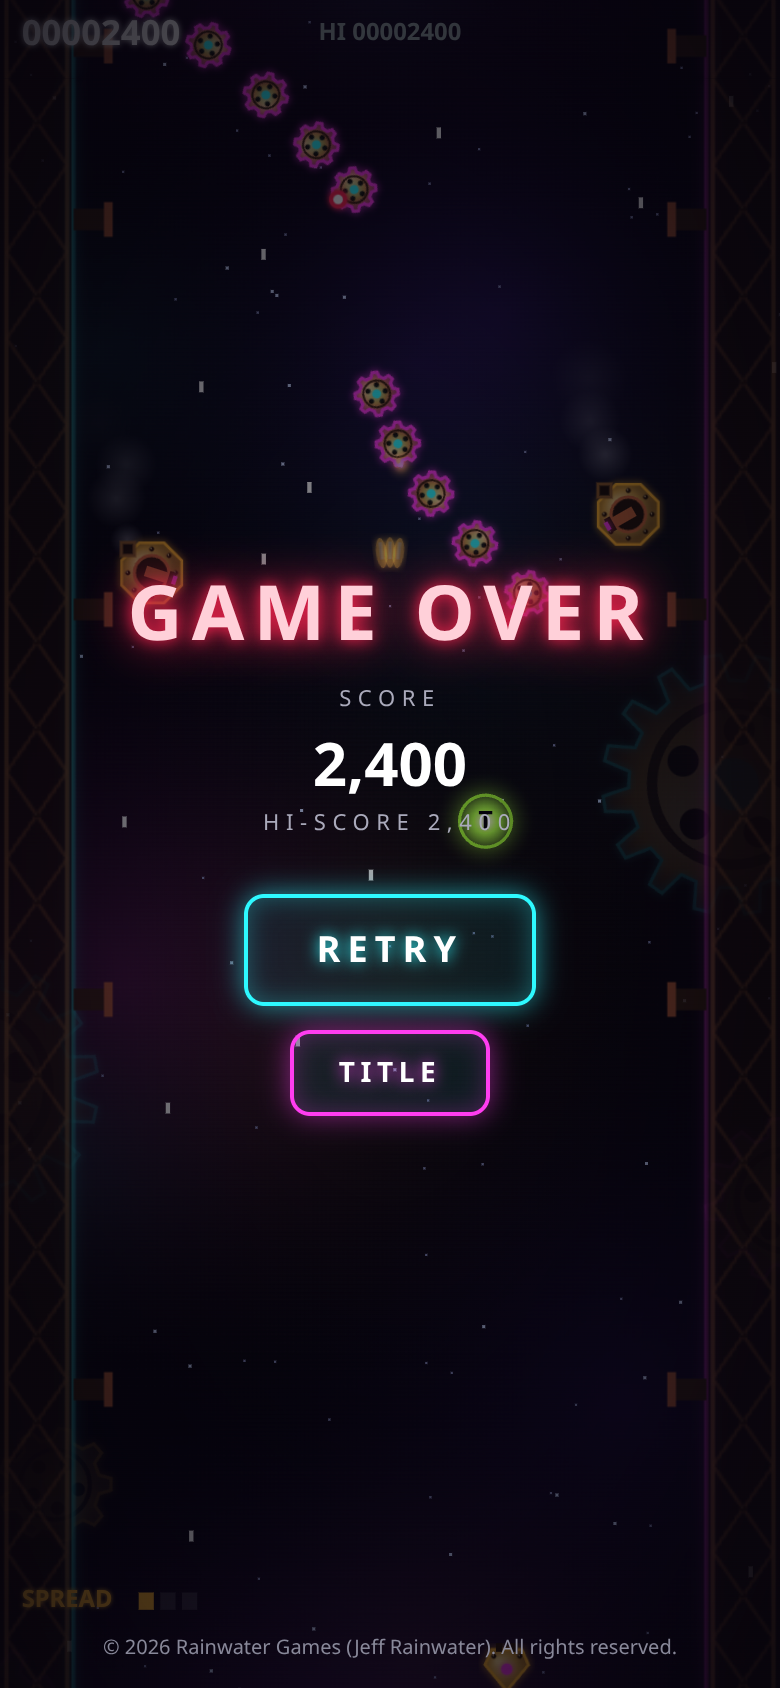
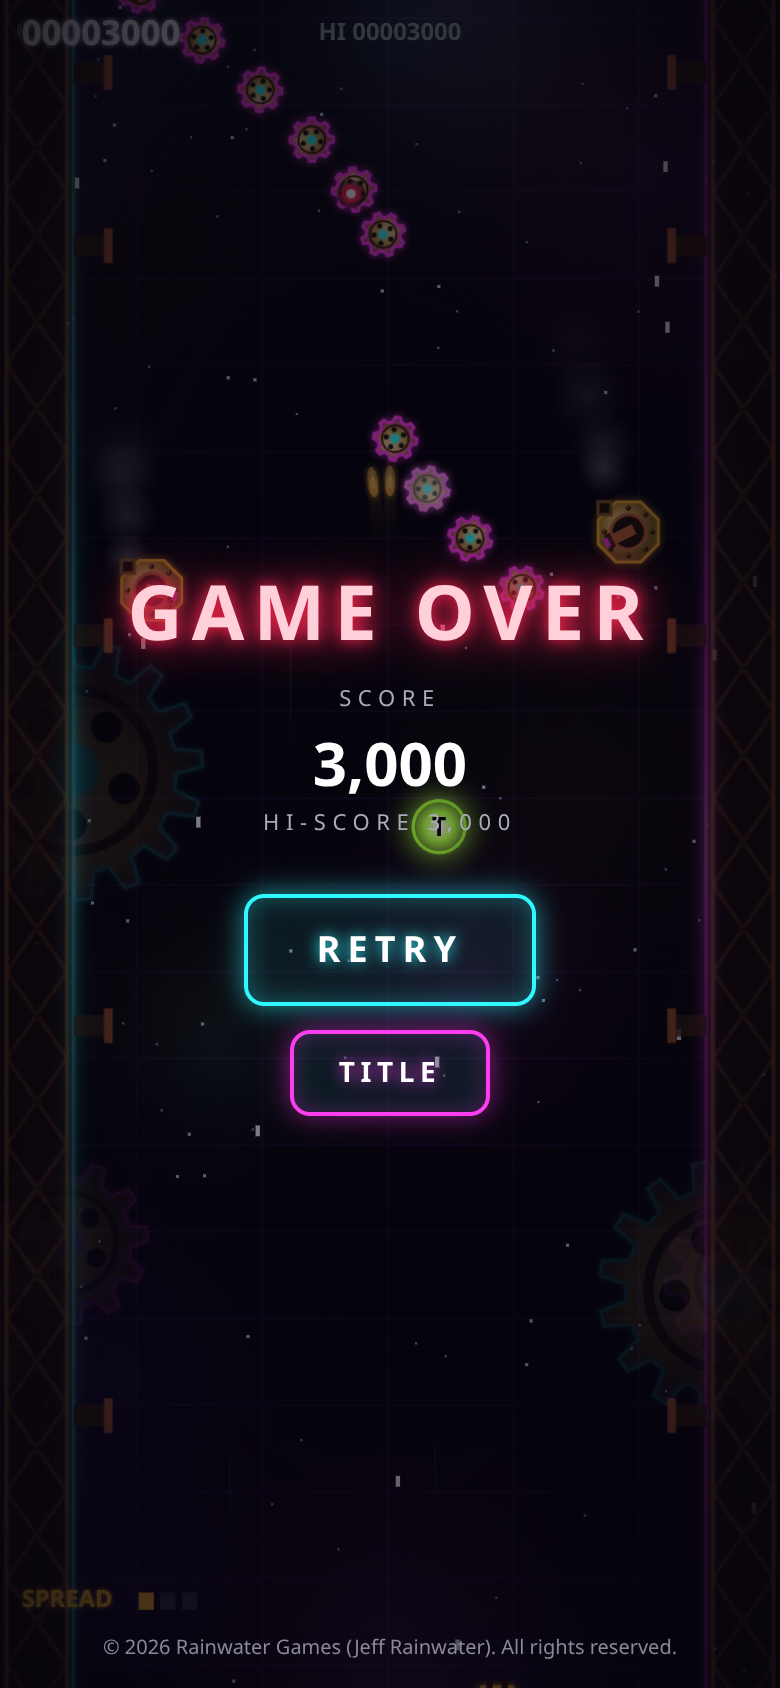
v0.2: difficulty ramp tuning, settings layout, screenshots

diff --git a/build/game.js b/build/game.js
@@ -192,14 +192,14 @@ const FX={pulse:0,beat:-1,strobe:0,strobeC:0,flashC:'255,255,255',streaks:[]};
 function light(x,y,r,c,life){const l=LT.get();if(!l)return;l.x=x;l.y=y;l.r=r;l.c=c||'am';l.life=l.max=life||18;}
 function flash(a,rgb){if(SET.rf)return;G.flash=Math.max(G.flash,a);FX.flashC=rgb||'255,255,255';}
 function strobe(n){if(SET.rf)return;FX.strobe=Math.max(FX.strobe,n);}
-function ramp(){return Math.min(1,G.st/(75*60));} // 0 at start -> 1 after 75s
+function ramp(){return clamp((G.st-14*60)/(70*60),0,1);} // 0 for the first 14s -> 1 at ~84s
 let eid=0;
 const DEF={drone:{hp0:2,r:9,sc:100},swooper:{hp0:4,r:10,sc:150},turret:{hp0:16,r:14,sc:400},carrier:{hp0:14,r:18,sc:500},gunship:{hp0:420,r:44,sc:20000,big:true},boss:{hp0:1800,r:64,sc:100000,big:true}};
 function spawn(type,x,y,o){const e=EN.get();if(!e)return null;for(const k in e)if(k!=='act')delete e[k];Object.assign(e,{type,x,y,vx:0,vy:0,t:0,fl:0,rot:0,invT:0,id:++eid,big:false},DEF[type],o||{});e.hp=e.maxhp=e.hp0;return e;}
 function later(f,fn){G.timers.push({at:G.t+f,fn});}
 // ---------- enemy bullets
 function aim(x,y){return Math.atan2(P.y-y,P.x-x);}
-function eShot(x,y,a,spd,big,force){if(P.dead>0||G.bombT>0)return;const rr=ramp();if(!force&&!G.boss&&Math.random()>.5+.5*rr)return;spd*=.72+.28*rr;const dx=P.x-x,dy=P.y-y;if(dx*dx+dy*dy<50*50)return;const b=EB.get();if(!b)return;b.x=x;b.y=y;b.vx=Math.cos(a)*spd;b.vy=Math.sin(a)*spd;b.big=!!big;b.r=big?6:4;}
+function eShot(x,y,a,spd,big,force){if(P.dead>0||G.bombT>0)return;const rr=ramp();if(!force&&!G.boss&&(G.st<14*60||Math.random()>.28+.72*rr))return;spd*=.7+.3*rr;const dx=P.x-x,dy=P.y-y;if(dx*dx+dy*dy<50*50)return;const b=EB.get();if(!b)return;b.x=x;b.y=y;b.vx=Math.cos(a)*spd;b.vy=Math.sin(a)*spd;b.big=!!big;b.r=big?6:4;}
 function fan(x,y,a,n,sp,spd,big){for(let i=0;i<n;i++)eShot(x,y,a+(n>1?(i/(n-1)-.5)*sp:0),spd,big);}
 function ring(x,y,n,off,spd,big){for(let i=0;i<n;i++)eShot(x,y,off+i/n*TAU,spd,big);}
 function clearBullets(bonus){for(const b of EB.a)if(b.act){b.act=false;if(bonus){G.score+=10;part(0,b.x,b.y,rnd(-.5,.5),rnd(-1,0),14,1,'mg');}}}
@@ -219,7 +219,7 @@ function kill(e){if(e.type==='boss'){e.dying=true;e.dT=0;clearBullets(true);G.sc
  if(e.type==='gunship'){G.hold=false;G.mid=null;dropOrb(e.x-20,e.y,0);dropOrb(e.x+20,e.y,1);for(let i=0;i<5;i++)later(i*7,()=>boom(e.x+rnd(-50,50),e.y+rnd(-30,30),1.5));}}
 function dropOrb(x,y,k){const u=PU.get();if(!u)return;u.x=x;u.y=y;u.t=0;u.k=k;u.w=(G.weapon+1+Math.floor(Math.random()*2))%3;}
 // ---------- spawners
-function swoop(dir,shoot){const x0=dir>0?50:310;for(let i=0;i<6;i++)later(i*10,()=>spawn('swooper',x0,-16,{x0,dir,shootAt:(shoot||i%2)?40+i*4:-1}));}
+function swoop(dir,shoot){const x0=dir>0?50:310;for(let i=0;i<6;i++)later(i*10,()=>spawn('swooper',x0,-16,{x0,dir,shootAt:((shoot&&ramp()>.3)||i%2)?40+i*4:-1}));}
 function droneCol(x,n){for(let i=0;i<n;i++)later(i*14,()=>spawn('drone',x,-14,{vy:2.4,x0:x,wob:i*.6,shootAt:i===n-1||i===2?50:-1}));}
 function droneV(x){[[0,0],[-26,-22],[26,-22],[-52,-44],[52,-44]].forEach(([dx,dy],i)=>spawn('drone',x+dx,-14+dy,{vy:1.9,x0:x+dx,wob:0,shootAt:i===1||i===2?70:-1}));}
 function popcorn(n){for(let i=0;i<n;i++)later(i*9,()=>spawn('drone',rnd(30,W-30),-14,{vy:3,x0:-1,home:true,shootAt:i%4===0?40:-1}));}
@@ -242,9 +242,9 @@ const EV=[[1,()=>{G.banner={t:0,a:'STAGE 1',b:'THE BRASS NEBULA'};}],
 // ---------- enemy AI
 function updEnemy(e){e.t++;if(e.fl>0)e.fl--;if(e.invT>0)e.invT--;const t=e.t;
  switch(e.type){
- case 'drone':e.y+=e.vy;if(e.home){e.vx=clamp(e.vx+Math.sign(P.x-e.x)*.04,-1.3,1.3);e.x+=e.vx;}else e.x=e.x0+Math.sin(t*.05+e.wob)*10;if(t===e.shootAt)eShot(e.x,e.y,aim(e.x,e.y),2.6);break;
+ case 'drone':e.y+=e.vy;if(e.home){e.vx=clamp(e.vx+Math.sign(P.x-e.x)*.04*(.4+.6*ramp()),-1.3,1.3);e.x+=e.vx;}else e.x=e.x0+Math.sin(t*.05+e.wob)*10;if(t===e.shootAt)eShot(e.x,e.y,aim(e.x,e.y),2.6);break;
  case 'swooper':e.y+=2.3;e.x=e.x0+e.dir*140*Math.sin(t*.021);e.rot+=.15*e.dir;if(t===e.shootAt)eShot(e.x,e.y,aim(e.x,e.y),2.7);break;
- case 'turret':e.y+=.9;e.rot=aim(e.x,e.y)+Math.PI/2;if(t%9===0)steam(e.x-11,e.y-13,-.2);if(e.y>20&&e.y<H*.72){e.cd--;if(e.cd<=0){e.cd=110;for(let i=0;i<3;i++)later(i*7,()=>{if(e.act)eShot(e.x,e.y,aim(e.x,e.y),2.5);});}}break;
+ case 'turret':e.y+=.9;e.rot=aim(e.x,e.y)+Math.PI/2;if(t%9===0)steam(e.x-11,e.y-13,-.2);if(e.y>20&&e.y<H*.72){e.cd--;if(e.cd<=0){e.cd=110+Math.round(50*(1-ramp()));for(let i=0;i<(ramp()<.4?2:3);i++)later(i*7,()=>{if(e.act)eShot(e.x,e.y,aim(e.x,e.y),2.5);});}}break;
  case 'carrier':e.y+=.6;e.x=e.x0+Math.sin(t*.02)*30;if(t%12===0)steam(e.x+26,e.y,.6);break;
  case 'gunship':if(e.y<120)e.y+=1.3;else{e.x=W/2+Math.sin(t*.012)*90;
    if(t%64===0)fan(e.x,e.y+20,aim(e.x,e.y+20),5,.8,2.8);
@@ -344,7 +344,7 @@ function update(){G.t++;
  if(G.state!=='play')return;
  if(!G.hold){G.st++;while(G.evI<EV.length&&EV[G.evI][0]*60<=G.st){EV[G.evI][1]();G.evI++;}}
  // player
- if(P.dead>0){P.dead--;if(P.dead===0&&G.lives>0){P.x=W/2;P.y=H-80;P.inv=150;G.bombs=Math.max(G.bombs,3);updHud();}}
+ if(P.dead>0){P.dead--;if(P.dead===0&&G.lives>0){P.x=W/2;P.y=H-80;P.inv=180;G.bombs=Math.max(G.bombs,3);updHud();}}
  else{let kx=(keys.ArrowRight||keys.KeyD?1:0)-(keys.ArrowLeft||keys.KeyA?1:0),ky=(keys.ArrowDown||keys.KeyS?1:0)-(keys.ArrowUp||keys.KeyW?1:0);const sp=keys.ShiftLeft||keys.ShiftRight?2.2:4.2;
   if(kx||ky){const n=Math.hypot(kx,ky);P.x=clamp(P.x+kx/n*sp,10,W-10);P.y=clamp(P.y+ky/n*sp,20,H-16);P.bank+=kx*.6;}
   if(P.fireT>0)P.fireT--;fire();if(P.inv>0)P.inv--;}
@@ -354,10 +354,10 @@ function update(){G.t++;
  for(const b of PB.a){if(!b.act)continue;b.x+=b.vx;b.y+=b.vy;if(b.y<-30||b.x<-20||b.x>W+20){b.act=false;continue;}
   for(const e of EN.a){if(!e.act||e.y<-8||e.dying)continue;const rx=e.r+b.w/2,ry=e.r+b.h/2;if(Math.abs(e.x-b.x)<rx&&Math.abs(e.y-b.y)<ry){hurt(e,b.dmg);if(Math.random()<.3)part(0,b.x,b.y-4,rnd(-1,1),rnd(-2,0),8,.5,WEAP[b.k].d);if(!b.pierce){b.act=false;break;}}}}
  // enemies
- for(const e of EN.a){if(!e.act)continue;updEnemy(e);if(!e.act||P.dead>0||e.dying)continue;const dx=e.x-P.x,dy=e.y-P.y,rr=e.r*.75+3;if(dx*dx+dy*dy<rr*rr&&e.y>0)playerHit();}
+ for(const e of EN.a){if(!e.act)continue;updEnemy(e);if(!e.act||P.dead>0||e.dying)continue;const dx=e.x-P.x,dy=e.y-P.y,rr=e.r*.62+2;if(dx*dx+dy*dy<rr*rr&&e.y>0){G.hitBy=e.type;playerHit();}}
  // enemy bullets
  for(const b of EB.a){if(!b.act)continue;b.x+=b.vx;b.y+=b.vy;if(b.y<-20||b.y>H+20||b.x<-20||b.x>W+20){b.act=false;continue;}
-  if(P.dead<=0){const dx=b.x-P.x,dy=b.y-P.y,rr=b.r*.75+2.5;if(dx*dx+dy*dy<rr*rr)playerHit();}}
+  if(P.dead<=0){const dx=b.x-P.x,dy=b.y-P.y,rr=b.r*.6+1.6;if(dx*dx+dy*dy<rr*rr){G.hitBy='bullet';playerHit();}}}
  // pickups
  for(const u of PU.a){if(!u.act)continue;u.t++;u.y+=.75;u.x+=Math.sin(u.t*.05)*.6;if(u.t%90===0)u.w=(u.w+1)%3;if(u.y>H+20){u.act=false;continue;}
   if(P.dead<=0){const dx=u.x-P.x,dy=u.y-P.y;if(dx*dx+dy*dy<22*22){u.act=false;sfx.power();if(u.w===G.weapon){if(G.lvl<3)G.lvl++;else G.score+=5000;}else G.weapon=u.w;
@@ -441,7 +441,7 @@ function boot(){resize();addEventListener('resize',resize);buildSprites();buildB
  setTimeout(()=>{$('splash').classList.add('gone');setTimeout(()=>$('splash').remove(),600);},350);
  if(DBG.includes('autostart'))startGame();
  if('serviceWorker'in navigator&&location.protocol==='https:')navigator.serviceWorker.register('sw.js').catch(()=>{});
- window.NG={G,P,EN,EB,PB,PT,bomb,startGame,togglePause,step:n=>{for(let i=0;i<n;i++)update();},counts:()=>({en:EN.count(),eb:EB.count(),pb:PB.count(),pt:PT.count()})};}
+ window.NG={AU,FX,SET,G,P,EN,EB,PB,PT,bomb,startGame,togglePause,step:n=>{for(let i=0;i<n;i++)update();},counts:()=>({en:EN.count(),eb:EB.count(),pb:PB.count(),pt:PT.count()})};}
 boot();
 
 })();

diff --git a/src/main.js b/src/main.js
@@ -26,14 +26,14 @@ const FX={pulse:0,beat:-1,strobe:0,strobeC:0,flashC:'255,255,255',streaks:[]};
 function light(x,y,r,c,life){const l=LT.get();if(!l)return;l.x=x;l.y=y;l.r=r;l.c=c||'am';l.life=l.max=life||18;}
 function flash(a,rgb){if(SET.rf)return;G.flash=Math.max(G.flash,a);FX.flashC=rgb||'255,255,255';}
 function strobe(n){if(SET.rf)return;FX.strobe=Math.max(FX.strobe,n);}
-function ramp(){return Math.min(1,G.st/(75*60));} // 0 at start -> 1 after 75s
+function ramp(){return clamp((G.st-14*60)/(70*60),0,1);} // 0 for the first 14s -> 1 at ~84s
 let eid=0;
 const DEF={drone:{hp0:2,r:9,sc:100},swooper:{hp0:4,r:10,sc:150},turret:{hp0:16,r:14,sc:400},carrier:{hp0:14,r:18,sc:500},gunship:{hp0:420,r:44,sc:20000,big:true},boss:{hp0:1800,r:64,sc:100000,big:true}};
 function spawn(type,x,y,o){const e=EN.get();if(!e)return null;for(const k in e)if(k!=='act')delete e[k];Object.assign(e,{type,x,y,vx:0,vy:0,t:0,fl:0,rot:0,invT:0,id:++eid,big:false},DEF[type],o||{});e.hp=e.maxhp=e.hp0;return e;}
 function later(f,fn){G.timers.push({at:G.t+f,fn});}
 // ---------- enemy bullets
 function aim(x,y){return Math.atan2(P.y-y,P.x-x);}
-function eShot(x,y,a,spd,big,force){if(P.dead>0||G.bombT>0)return;const rr=ramp();if(!force&&!G.boss&&Math.random()>.5+.5*rr)return;spd*=.72+.28*rr;const dx=P.x-x,dy=P.y-y;if(dx*dx+dy*dy<50*50)return;const b=EB.get();if(!b)return;b.x=x;b.y=y;b.vx=Math.cos(a)*spd;b.vy=Math.sin(a)*spd;b.big=!!big;b.r=big?6:4;}
+function eShot(x,y,a,spd,big,force){if(P.dead>0||G.bombT>0)return;const rr=ramp();if(!force&&!G.boss&&(G.st<14*60||Math.random()>.28+.72*rr))return;spd*=.7+.3*rr;const dx=P.x-x,dy=P.y-y;if(dx*dx+dy*dy<50*50)return;const b=EB.get();if(!b)return;b.x=x;b.y=y;b.vx=Math.cos(a)*spd;b.vy=Math.sin(a)*spd;b.big=!!big;b.r=big?6:4;}
 function fan(x,y,a,n,sp,spd,big){for(let i=0;i<n;i++)eShot(x,y,a+(n>1?(i/(n-1)-.5)*sp:0),spd,big);}
 function ring(x,y,n,off,spd,big){for(let i=0;i<n;i++)eShot(x,y,off+i/n*TAU,spd,big);}
 function clearBullets(bonus){for(const b of EB.a)if(b.act){b.act=false;if(bonus){G.score+=10;part(0,b.x,b.y,rnd(-.5,.5),rnd(-1,0),14,1,'mg');}}}
@@ -53,7 +53,7 @@ function kill(e){if(e.type==='boss'){e.dying=true;e.dT=0;clearBullets(true);G.sc
  if(e.type==='gunship'){G.hold=false;G.mid=null;dropOrb(e.x-20,e.y,0);dropOrb(e.x+20,e.y,1);for(let i=0;i<5;i++)later(i*7,()=>boom(e.x+rnd(-50,50),e.y+rnd(-30,30),1.5));}}
 function dropOrb(x,y,k){const u=PU.get();if(!u)return;u.x=x;u.y=y;u.t=0;u.k=k;u.w=(G.weapon+1+Math.floor(Math.random()*2))%3;}
 // ---------- spawners
-function swoop(dir,shoot){const x0=dir>0?50:310;for(let i=0;i<6;i++)later(i*10,()=>spawn('swooper',x0,-16,{x0,dir,shootAt:(shoot||i%2)?40+i*4:-1}));}
+function swoop(dir,shoot){const x0=dir>0?50:310;for(let i=0;i<6;i++)later(i*10,()=>spawn('swooper',x0,-16,{x0,dir,shootAt:((shoot&&ramp()>.3)||i%2)?40+i*4:-1}));}
 function droneCol(x,n){for(let i=0;i<n;i++)later(i*14,()=>spawn('drone',x,-14,{vy:2.4,x0:x,wob:i*.6,shootAt:i===n-1||i===2?50:-1}));}
 function droneV(x){[[0,0],[-26,-22],[26,-22],[-52,-44],[52,-44]].forEach(([dx,dy],i)=>spawn('drone',x+dx,-14+dy,{vy:1.9,x0:x+dx,wob:0,shootAt:i===1||i===2?70:-1}));}
 function popcorn(n){for(let i=0;i<n;i++)later(i*9,()=>spawn('drone',rnd(30,W-30),-14,{vy:3,x0:-1,home:true,shootAt:i%4===0?40:-1}));}
@@ -76,9 +76,9 @@ const EV=[[1,()=>{G.banner={t:0,a:'STAGE 1',b:'THE BRASS NEBULA'};}],
 // ---------- enemy AI
 function updEnemy(e){e.t++;if(e.fl>0)e.fl--;if(e.invT>0)e.invT--;const t=e.t;
  switch(e.type){
- case 'drone':e.y+=e.vy;if(e.home){e.vx=clamp(e.vx+Math.sign(P.x-e.x)*.04,-1.3,1.3);e.x+=e.vx;}else e.x=e.x0+Math.sin(t*.05+e.wob)*10;if(t===e.shootAt)eShot(e.x,e.y,aim(e.x,e.y),2.6);break;
+ case 'drone':e.y+=e.vy;if(e.home){e.vx=clamp(e.vx+Math.sign(P.x-e.x)*.04*(.4+.6*ramp()),-1.3,1.3);e.x+=e.vx;}else e.x=e.x0+Math.sin(t*.05+e.wob)*10;if(t===e.shootAt)eShot(e.x,e.y,aim(e.x,e.y),2.6);break;
  case 'swooper':e.y+=2.3;e.x=e.x0+e.dir*140*Math.sin(t*.021);e.rot+=.15*e.dir;if(t===e.shootAt)eShot(e.x,e.y,aim(e.x,e.y),2.7);break;
- case 'turret':e.y+=.9;e.rot=aim(e.x,e.y)+Math.PI/2;if(t%9===0)steam(e.x-11,e.y-13,-.2);if(e.y>20&&e.y<H*.72){e.cd--;if(e.cd<=0){e.cd=110;for(let i=0;i<3;i++)later(i*7,()=>{if(e.act)eShot(e.x,e.y,aim(e.x,e.y),2.5);});}}break;
+ case 'turret':e.y+=.9;e.rot=aim(e.x,e.y)+Math.PI/2;if(t%9===0)steam(e.x-11,e.y-13,-.2);if(e.y>20&&e.y<H*.72){e.cd--;if(e.cd<=0){e.cd=110+Math.round(50*(1-ramp()));for(let i=0;i<(ramp()<.4?2:3);i++)later(i*7,()=>{if(e.act)eShot(e.x,e.y,aim(e.x,e.y),2.5);});}}break;
  case 'carrier':e.y+=.6;e.x=e.x0+Math.sin(t*.02)*30;if(t%12===0)steam(e.x+26,e.y,.6);break;
  case 'gunship':if(e.y<120)e.y+=1.3;else{e.x=W/2+Math.sin(t*.012)*90;
    if(t%64===0)fan(e.x,e.y+20,aim(e.x,e.y+20),5,.8,2.8);
@@ -178,7 +178,7 @@ function update(){G.t++;
  if(G.state!=='play')return;
  if(!G.hold){G.st++;while(G.evI<EV.length&&EV[G.evI][0]*60<=G.st){EV[G.evI][1]();G.evI++;}}
  // player
- if(P.dead>0){P.dead--;if(P.dead===0&&G.lives>0){P.x=W/2;P.y=H-80;P.inv=150;G.bombs=Math.max(G.bombs,3);updHud();}}
+ if(P.dead>0){P.dead--;if(P.dead===0&&G.lives>0){P.x=W/2;P.y=H-80;P.inv=180;G.bombs=Math.max(G.bombs,3);updHud();}}
  else{let kx=(keys.ArrowRight||keys.KeyD?1:0)-(keys.ArrowLeft||keys.KeyA?1:0),ky=(keys.ArrowDown||keys.KeyS?1:0)-(keys.ArrowUp||keys.KeyW?1:0);const sp=keys.ShiftLeft||keys.ShiftRight?2.2:4.2;
   if(kx||ky){const n=Math.hypot(kx,ky);P.x=clamp(P.x+kx/n*sp,10,W-10);P.y=clamp(P.y+ky/n*sp,20,H-16);P.bank+=kx*.6;}
   if(P.fireT>0)P.fireT--;fire();if(P.inv>0)P.inv--;}
@@ -188,10 +188,10 @@ function update(){G.t++;
  for(const b of PB.a){if(!b.act)continue;b.x+=b.vx;b.y+=b.vy;if(b.y<-30||b.x<-20||b.x>W+20){b.act=false;continue;}
   for(const e of EN.a){if(!e.act||e.y<-8||e.dying)continue;const rx=e.r+b.w/2,ry=e.r+b.h/2;if(Math.abs(e.x-b.x)<rx&&Math.abs(e.y-b.y)<ry){hurt(e,b.dmg);if(Math.random()<.3)part(0,b.x,b.y-4,rnd(-1,1),rnd(-2,0),8,.5,WEAP[b.k].d);if(!b.pierce){b.act=false;break;}}}}
  // enemies
- for(const e of EN.a){if(!e.act)continue;updEnemy(e);if(!e.act||P.dead>0||e.dying)continue;const dx=e.x-P.x,dy=e.y-P.y,rr=e.r*.75+3;if(dx*dx+dy*dy<rr*rr&&e.y>0)playerHit();}
+ for(const e of EN.a){if(!e.act)continue;updEnemy(e);if(!e.act||P.dead>0||e.dying)continue;const dx=e.x-P.x,dy=e.y-P.y,rr=e.r*.62+2;if(dx*dx+dy*dy<rr*rr&&e.y>0){G.hitBy=e.type;playerHit();}}
  // enemy bullets
  for(const b of EB.a){if(!b.act)continue;b.x+=b.vx;b.y+=b.vy;if(b.y<-20||b.y>H+20||b.x<-20||b.x>W+20){b.act=false;continue;}
-  if(P.dead<=0){const dx=b.x-P.x,dy=b.y-P.y,rr=b.r*.75+2.5;if(dx*dx+dy*dy<rr*rr)playerHit();}}
+  if(P.dead<=0){const dx=b.x-P.x,dy=b.y-P.y,rr=b.r*.6+1.6;if(dx*dx+dy*dy<rr*rr){G.hitBy='bullet';playerHit();}}}
  // pickups
  for(const u of PU.a){if(!u.act)continue;u.t++;u.y+=.75;u.x+=Math.sin(u.t*.05)*.6;if(u.t%90===0)u.w=(u.w+1)%3;if(u.y>H+20){u.act=false;continue;}
   if(P.dead<=0){const dx=u.x-P.x,dy=u.y-P.y;if(dx*dx+dy*dy<22*22){u.act=false;sfx.power();if(u.w===G.weapon){if(G.lvl<3)G.lvl++;else G.score+=5000;}else G.weapon=u.w;
@@ -275,5 +275,5 @@ function boot(){resize();addEventListener('resize',resize);buildSprites();buildB
  setTimeout(()=>{$('splash').classList.add('gone');setTimeout(()=>$('splash').remove(),600);},350);
  if(DBG.includes('autostart'))startGame();
  if('serviceWorker'in navigator&&location.protocol==='https:')navigator.serviceWorker.register('sw.js').catch(()=>{});
- window.NG={G,P,EN,EB,PB,PT,bomb,startGame,togglePause,step:n=>{for(let i=0;i<n;i++)update();},counts:()=>({en:EN.count(),eb:EB.count(),pb:PB.count(),pt:PT.count()})};}
+ window.NG={AU,FX,SET,G,P,EN,EB,PB,PT,bomb,startGame,togglePause,step:n=>{for(let i=0;i<n;i++)update();},counts:()=>({en:EN.count(),eb:EB.count(),pb:PB.count(),pt:PT.count()})};}
 boot();

diff --git a/index.html b/index.html
@@ -21,7 +21,7 @@ canvas{display:block;touch-action:none}
 .ov{position:fixed;inset:0;z-index:20;display:flex;flex-direction:column;align-items:center;justify-content:center;text-align:center;padding:24px;background:radial-gradient(ellipse at center,rgba(5,3,12,.35),rgba(5,3,12,.85))}
 .hide{display:none!important}
 .row{display:flex;align-items:center;justify-content:space-between;gap:12px;width:280px;margin:10px 0;font-size:13px;letter-spacing:.2em;color:#e6feff;text-shadow:0 0 6px #2ef9ff}
-.row input{flex:1;accent-color:#ff3df0}.tog.on{border-color:#a6ff3a;text-shadow:0 0 8px #a6ff3a}
+.row .lb{width:96px;text-align:left}.row input{flex:1;accent-color:#ff3df0}.tog.on{border-color:#a6ff3a;text-shadow:0 0 8px #a6ff3a}
 #settings .btn,#photo .btn{margin-top:10px}
 .logo{line-height:.95;margin:0 0 6px}
 .logo .a{display:block;font-size:56px;font-weight:900;letter-spacing:.12em;color:#ffe6fd;text-shadow:0 0 6px #ff3df0,0 0 18px #ff3df0,0 0 40px #ff3df0}
@@ -60,9 +60,9 @@ h2{font-size:38px;margin:0 0 10px;letter-spacing:.12em}
 <div id="over" class="ov hide"><h2 class="go">GAME OVER</h2><div class="lbl">SCORE</div><div class="big" id="oScore">0</div><div class="lbl">HI-SCORE <span id="oHi"></span></div><br><button class="btn" id="bRetry">RETRY</button><button class="btn alt" id="bTitle1">TITLE</button><div class="copy">© 2026 Rainwater Games (Jeff Rainwater). All rights reserved.</div></div>
 <div id="clear" class="ov hide"><h2 class="sc">STAGE CLEAR</h2><div class="lbl">CLOCKWORK COLOSSUS DESTROYED</div><br><div class="lbl">BONUS</div><div id="cBonus" style="color:#ffb52e;margin:4px 0 10px"></div><div class="lbl">SCORE</div><div class="big" id="cScore">0</div><div class="lbl">HI-SCORE <span id="cHi"></span></div><br><button class="btn" id="bAgain">PLAY AGAIN</button><button class="btn alt" id="bTitle2">TITLE</button><div class="lbl" style="margin-top:12px">MORE STAGES COMING SOON</div><div class="copy">© 2026 Rainwater Games (Jeff Rainwater). All rights reserved.</div></div>
 <div id="settings" class="ov hide"><h2 class="pz">SETTINGS</h2>
- <label class="row">MUSIC <input type="range" id="sMus" min="0" max="1" step="0.05"></label>
- <label class="row">SFX <input type="range" id="sSfx" min="0" max="1" step="0.05"></label>
- <label class="row">DRAG SPEED <input type="range" id="sSens" min="0.6" max="2" step="0.1"><span id="sSensV"></span></label>
+ <label class="row"><span class="lb">MUSIC</span><input type="range" id="sMus" min="0" max="1" step="0.05"></label>
+ <label class="row"><span class="lb">SFX</span><input type="range" id="sSfx" min="0" max="1" step="0.05"></label>
+ <label class="row"><span class="lb">DRAG SPEED</span><input type="range" id="sSens" min="0.6" max="2" step="0.1"><span id="sSensV"></span></label>
  <button class="btn alt tog" id="sRF">REDUCE FLASHING: OFF</button>
  <div class="help">Reduce Flashing turns off strobes and full-screen flashes and softens the beat pulse.<br>Touch: hold a second finger anywhere for slow, precise movement.</div>
  <button class="btn" id="bSetBack">BACK</button><div class="copy">© 2026 Rainwater Games (Jeff Rainwater). All rights reserved.</div></div>
